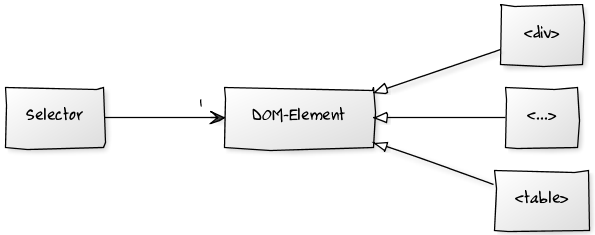
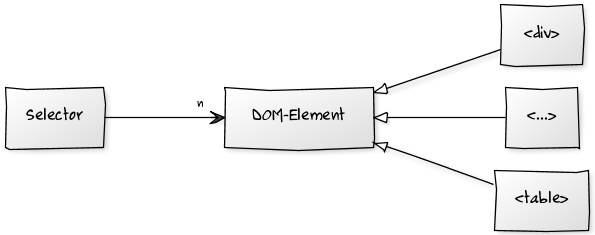
updated build script

diff --git a/examples/src/test/java/service/TaskServiceTest.java b/examples/src/test/java/service/TaskServiceTest.java
@@ -20,6 +20,7 @@ import server.MyServer;
 public class TaskServiceTest {
 	private MyServer server;
 	private HttpClient client;
+	private String url = "http://localhost:8080/service/tasks/";
 
 	@Before
 	public void startServer() throws Exception {
@@ -36,7 +37,7 @@ public class TaskServiceTest {
 
 	@Test
 	public void getEmptyTaskList() throws IOException {
-		GetMethod get = new GetMethod("http://localhost:8080/service/tasks");
+		GetMethod get = new GetMethod(url);
 		assertEquals(HttpStatus.SC_OK, client.executeMethod(get));
 		assertEquals("[]", get.getResponseBodyAsString());
 		get.releaseConnection();
@@ -44,12 +45,12 @@ public class TaskServiceTest {
 	
 	@Test
 	public void createTask() throws IOException {
-		PutMethod put= new PutMethod("http://localhost:8080/service/tasks");
+		PutMethod put= new PutMethod(url);
 		put.setRequestEntity(new FileRequestEntity(new File(getClass().getResource("task_01.json").getFile()), "application/json"));
 		assertEquals(HttpStatus.SC_NO_CONTENT, client.executeMethod(put));
 		put.releaseConnection();
 		
-		GetMethod get = new GetMethod("http://localhost:8080/service/tasks");
+		GetMethod get = new GetMethod(url);
 		assertEquals(HttpStatus.SC_OK, client.executeMethod(get));
 		assertEquals("[{\"id\":1,\"state\":\"Current\",\"date\":\"1293490800000\",\"title\":\"Den REST-Service testen\"}]", get.getResponseBodyAsString());
 		
@@ -57,17 +58,17 @@ public class TaskServiceTest {
 	
 	@Test
 	public void updateTask() throws IOException {
-		PutMethod put= new PutMethod("http://localhost:8080/service/tasks");
+		PutMethod put= new PutMethod(url);
 		put.setRequestEntity(new FileRequestEntity(new File(getClass().getResource("task_01.json").getFile()), "application/json"));
 		assertEquals(HttpStatus.SC_NO_CONTENT, client.executeMethod(put));
 		put.releaseConnection();
 		
-		PostMethod post= new PostMethod("http://localhost:8080/service/tasks/1");
+		PostMethod post= new PostMethod(url + "1");
 		post.setRequestEntity(new FileRequestEntity(new File(getClass().getResource("task_02.json").getFile()), "application/json"));
 		assertEquals(HttpStatus.SC_NO_CONTENT, client.executeMethod(post));
 		post.releaseConnection();
 		
-		GetMethod get = new GetMethod("http://localhost:8080/service/tasks");
+		GetMethod get = new GetMethod(url);
 		assertEquals(HttpStatus.SC_OK, client.executeMethod(get));
 		assertEquals("[{\"id\":1,\"state\":\"Finished\",\"date\":\"1293490800000\",\"title\":\"Den REST-Service erneut testen\"}]", get.getResponseBodyAsString());
 		get.releaseConnection();

diff --git a/examples/src/main/java/server/MyServer.java b/examples/src/main/java/server/MyServer.java
@@ -17,7 +17,7 @@ public class MyServer {
 		server.start();
 	}
 	
-	public void start() throws Exception {
+	public MyServer start() throws Exception {
 		server = new Server(8080);
 
 		HandlerList handlers = new HandlerList();
@@ -25,6 +25,7 @@ public class MyServer {
 		server.setHandler(handlers);
 
 		server.start();
+		return this;
 	}
 
 	private Handler createEventBusServletHandler() {

diff --git a/presentation/css/01_css.md b/presentation/css/01_css.md
@@ -16,7 +16,7 @@
 	</body>
 	</html>
 
-!SLIDE
+
 !SLIDE bullets incremental smaller
 # Cascading StyleSheets (CSS)
 
@@ -46,7 +46,7 @@
 <br/>
 ![Selector -> DOM-Element](selectorDom.png)
 <!--Edit the UML-Diagram:
-http://yuml.me/diagram/scruffy;dir:LR;/class/edit/[Selector]-%3E1[DOM-Element],%20[DOM-Element]%5E[%3Ctable%3E],%20[DOM-Element]%5E[%3C...%3E],%20[DOM-Element]%5E[%3Cdiv%3E]
+http://yuml.me/diagram/scruffy;dir:LR;/class/edit/[Selector]-%3En[DOM-Element],%20[DOM-Element]%5E[%3Ctable%3E],%20[DOM-Element]%5E[%3C...%3E],%20[DOM-Element]%5E[%3Cdiv%3E]
  -->
 
 !SLIDE
@@ -116,9 +116,13 @@ http://yuml.me/diagram/scruffy;dir:LR;/class/edit/[Selector]-%3E1[DOM-Element],%
 	/* combination */
 	div#myDivId.styleClass a:visited {background-color: blue;}
 
-!SLIDE bullets smaller
-# Combine multiple selectors (relationships)
-* <http://de.wikipedia.org/wiki/Cascading_Style_Sheets#Definition_des_Syntaxschemas>
+!SLIDE bullets smaller incremental
+# [Combine multiple selectors](http://de.wikipedia.org/wiki/Cascading_Style_Sheets#Definition_des_Syntaxschemas)
+* A > B (B is a child of A) 
+* A + B (B is the next sibling of A)
+* A[foo='bar']
+* A B (B is a descendant of A)
+* div, a (union of all elements of type *div* and *a*)
 	
 !SLIDE bullets smaller
 # [Selector evaluation](http://de.selfhtml.org/css/formate/kaskade.htm#spezifitaet)
@@ -212,8 +216,14 @@ http://yuml.me/diagram/scruffy;dir:LR;/class/edit/[Selector]-%3E1[DOM-Element],%
 * e.g. don't use `td.column0 { width: 80%; }`
 * but `table.tasks > tbody > tr > td.column0`
 
-!SLIDE
+!SLIDE bullets smaller
 # Tasks
+* [download examples](https://github.com/mpfau/webCoaching/zipball/master) and unzip
+* `$ cd examples`
+* `$ gradlew`
+* `$ java -jar build/libs/examples-1.0.jar`
+* use a good texteditor or [ide for CSS and JavaScript](http://www.eclipse.org/downloads/packages/eclipse-ide-javascript-web-developers/heliossr1)
+* Chrome or Firefox + Firebug are developers swiss army knifes!
 
 !SLIDE bullets smaller
 # #1
@@ -224,49 +234,3 @@ http://yuml.me/diagram/scruffy;dir:LR;/class/edit/[Selector]-%3E1[DOM-Element],%
 # #2
 * Edit the css-File of example_02 for matching example_03
 * You have to use CSS3!
-
-!SLIDE bullets smaller
-# #3
-* Javascript kick-start:
-* Include jquery library
-* create a message box
-
-!SLIDE bullets smaller
-# #4
-* save the business data as json
-* use jquery to fill the tables and details view
-
-!SLIDE bullets smaller
-# #5
-* add editing features
-* add the possibility to add new tasks
-
-!SLIDE bullets smaller
-# #6
-* Connect to the REST backend
-
-!SLIDE bullets smaller
-# #7
-* Go offline!
-
-!SLIDE bullets smaller
-# #8
-* Push-Enable the application  
-
-!SLIDE bullets smaller
-#How to move on?
-* multiple selection -> updates, deletes
-* offline mode (HTML5)
-* push of data, e.g. concurrent modification (HTML5 comet)
-* let the user add tabs (jquery-ui) plugin
-* provide a date selector (jquery-ui) 
-
-
-TODO:
---Javascript samples
---Ajax Samples
---Offline Samples
---Javascript Folien
---Portal Folien
---Sproutcore Samples und Folien
-

diff --git a/presentation/title/01_slide.md b/presentation/title/01_slide.md
@@ -4,13 +4,15 @@
 ## Matthias Pfau
 ## Zühlke Engineering GmbH
 
+<br/>
+###<http://webcoaching.heroku.com/>
+
 !SLIDE bullets incremental
 # Topics
 
 * css
 * javascript
 * jquery
-* sproutcore
 * portal development
 
 !SLIDE center
